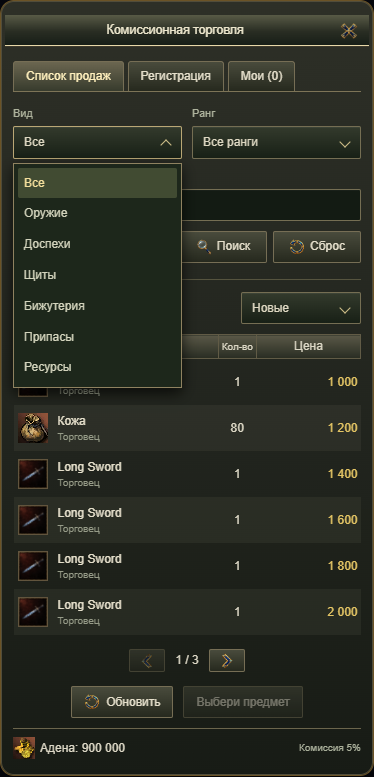
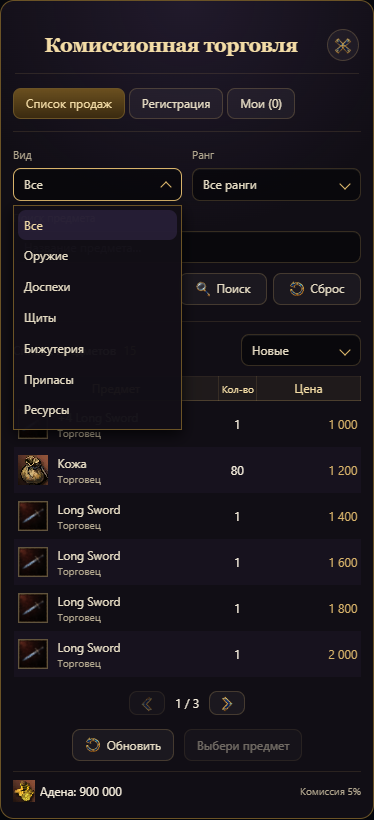
style(trade): align shop and auction with WhitesLove theme

diff --git a/webapp/auction.css b/webapp/auction.css
@@ -1,73 +1,73 @@
 .auction-overlay { align-items: center; padding: 10px; }
-.overlay-panel.auction-panel { width: min(100%, 900px); padding: 0 16px 12px; max-height: calc(100dvh - 20px); border: 2px ridge #9b9277; border-radius: 7px; background: linear-gradient(#313329ed, #181c16fa); color: #ddd8c6; box-shadow: inset 0 0 0 1px #514d3b, 0 15px 45px #000b; font: 12px/1.4 Arial, sans-serif; }
-.auction-title { display: flex; align-items: center; justify-content: space-between; margin: 0 -16px 14px; padding: 3px 8px; border-bottom: 2px ridge #92896b; background: linear-gradient(#585a46, #292d23 55%, #171e17); }
-.auction-title h2 { flex: 1; margin: 0; text-align: center; color: #eee8ce; font: 13px/22px Arial, sans-serif; }
-.auction-title .overlay-close { position: static; border: 0; background: transparent; color: #ded6b9; padding: 0 2px; width: 24px; height: 24px; font: 22px/1 Arial, sans-serif; }
-.auction-panel button, .auction-panel select, .auction-panel input { border: 1px solid #766e55; border-radius: 2px; background: linear-gradient(#494b3c, #26291e); color: #e5dfcb; font: inherit; }
+.overlay-panel.auction-panel { width: min(100%, 900px); padding: 0 16px 12px; max-height: calc(100dvh - 20px); border: 1px solid var(--gold-dim); border-radius: var(--radius-lg, 18px); background: radial-gradient(ellipse 90% 40% at 50% 0%, rgba(80,60,110,.25), transparent 70%), var(--surface-panel); color: var(--text); box-shadow: var(--shadow-panel); font: 12px/1.4 system-ui, sans-serif; }
+.auction-title { display: flex; align-items: center; justify-content: space-between; margin: 0 0 14px; padding: 14px 0 12px; border-bottom: 1px solid var(--border-subtle); background: transparent; }
+.auction-title h2 { flex: 1; margin: 0; text-align: center; color: var(--gold-bright); font: 700 20px/1.25 var(--serif); }
+.auction-title .overlay-close { position: static; border: 1px solid var(--border-soft); border-radius: 50%; background: var(--surface-control); color: var(--text-soft); padding: 0; width: 32px; height: 32px; flex: 0 0 32px; font: 22px/1 Arial, sans-serif; }
+.auction-panel button, .auction-panel select, .auction-panel input { border: 1px solid var(--border-soft); border-radius: var(--radius-xs, 8px); background: var(--surface-control); color: var(--text-soft); font: inherit; }
 .auction-panel button { cursor: pointer; padding: 6px 12px; font-weight: normal; }
 .auction-panel .ui-icon { width: 16px; height: 16px; flex: 0 0 16px; object-fit: contain; vertical-align: middle; }
 .auction-panel .overlay-close .ui-icon { width: 18px; height: 18px; }
 .auction-panel button:disabled { opacity: .45; cursor: default; }
-.auction-panel button:focus-visible, .auction-panel input:focus-visible, .auction-panel select:focus-visible { outline: 1px solid #dac381; outline-offset: 2px; }
-.auction-tabs { display: flex; gap: 4px; margin-bottom: 14px; border-bottom: 1px solid #7d7457; }
-.auction-tabs button { border-radius: 3px 3px 0 0; border-bottom: 0; }
-.auction-tabs .active { background: linear-gradient(#6b6650, #373b2d); color: #fff0bd; }
-.auction-filters { display: grid; grid-template-columns: 135px 120px minmax(0,1fr) auto; align-items: end; gap: 12px; padding: 0 0 16px; margin-bottom: 12px; border-bottom: 1px solid #56543f; }
+.auction-panel button:focus-visible, .auction-panel input:focus-visible, .auction-panel select:focus-visible { outline: 1px solid var(--gold); outline-offset: 2px; }
+.auction-tabs { display: flex; gap: 4px; margin-bottom: 16px; padding-bottom: 12px; border-bottom: 1px solid var(--border-subtle); }
+.auction-tabs button { border-radius: var(--radius-xs, 8px); }
+.auction-tabs .active { background: var(--button-gold); border-color: var(--gold-dim); color: var(--gold-bright); }
+.auction-filters { display: grid; grid-template-columns: 135px 120px minmax(0,1fr) auto; align-items: end; gap: 12px; padding: 0 0 16px; margin-bottom: 12px; border-bottom: 1px solid var(--border-subtle); }
 .auction-filter-field { display: flex; flex-direction: column; gap: 6px; min-width: 0; }
-.auction-filter-field > span { color: #aeb39d; font: 11px/14px Arial,sans-serif; }
-.auction-filters input { width: 100%; min-width: 0; height: 32px; padding: 6px 10px; border-radius: 2px; background: #131b13; box-shadow: inset 0 1px 4px #0008; appearance: none; }
-.auction-panel input::placeholder { color: #858d7a; opacity: 1; }
-.auction-overlay .auction-panel .auction-filter-field input[type=search], .auction-overlay .auction-panel .feedback-field input[type=number] { min-height: 32px; border: 1px solid #756e53; border-radius: 2px; background: #131b13; color: #ded8c2; padding: 6px 10px; font: 12px/18px Arial,sans-serif; }
+.auction-filter-field > span { color: var(--muted); font: 11px/14px system-ui,sans-serif; }
+.auction-filters input { width: 100%; min-width: 0; height: 32px; padding: 6px 10px; border-radius: var(--radius-xs, 8px); background: var(--surface-input); box-shadow: inset 0 1px 4px #0008; appearance: none; }
+.auction-panel input::placeholder { color: var(--text-faint); opacity: 1; }
+.auction-overlay .auction-panel .auction-filter-field input[type=search], .auction-overlay .auction-panel .feedback-field input[type=number] { min-height: 32px; border: 1px solid var(--border-soft); border-radius: var(--radius-xs, 8px); background: var(--surface-input); color: var(--text-soft); padding: 6px 10px; font: 12px/18px system-ui,sans-serif; }
 .auction-filter-actions { display: flex; gap: 6px; }
 .auction-filter-actions button { display: flex; align-items: center; justify-content: center; gap: 5px; height: 32px; }
 .auction-dropdown { position: relative; min-width: 0; font-weight: normal; }
-.auction-dropdown summary { position: relative; min-height: 32px; list-style: none; padding: 7px 30px 7px 10px; border: 1px solid #756e53; border-radius: 2px; background: linear-gradient(#333a2c,#182016); color: #ded8c2; cursor: pointer; box-shadow: inset 0 1px #ffffff0d; white-space: nowrap; }
+.auction-dropdown summary { position: relative; min-height: 32px; list-style: none; padding: 7px 30px 7px 10px; border: 1px solid var(--border-soft); border-radius: var(--radius-xs, 8px); background: var(--surface-input); color: var(--text-soft); cursor: pointer; box-shadow: inset 0 1px #ffffff0d; white-space: nowrap; }
 .auction-dropdown summary::-webkit-details-marker { display: none; }
-.auction-dropdown summary::after { content: ''; position: absolute; right: 11px; top: 11px; width: 7px; height: 7px; border-right: 1px solid #c9b985; border-bottom: 1px solid #c9b985; transform: rotate(45deg); }
-.auction-dropdown[open] summary { border-color: #baa775; }
+.auction-dropdown summary::after { content: ''; position: absolute; right: 11px; top: 11px; width: 7px; height: 7px; border-right: 1px solid var(--gold); border-bottom: 1px solid var(--gold); transform: rotate(45deg); }
+.auction-dropdown[open] summary { border-color: var(--gold); }
 .auction-dropdown[open] summary::after { top: 14px; transform: rotate(225deg); }
-.auction-dropdown-options { position: absolute; top: calc(100% + 4px); left: 0; right: 0; z-index: 5; max-height: 250px; overflow-y: auto; padding: 4px; border: 1px solid #8f8260; background: #1d271b; box-shadow: 0 5px 14px #000b; }
-.auction-dropdown-options button { display: block; width: 100%; padding: 7px 6px; border: 0; background: transparent; color: #d3d4bd; text-align: left; }
-.auction-dropdown-options button:hover, .auction-dropdown-options button[aria-pressed=true] { background: #414b32; color: #f4df9c; }
-.auction-dropdown summary:focus-visible { outline: 1px solid #dac381; outline-offset: 2px; }
+.auction-dropdown-options { position: absolute; top: calc(100% + 4px); left: 0; right: 0; z-index: 5; max-height: 250px; overflow-y: auto; padding: 4px; border: 1px solid var(--gold-dim); background: var(--surface-panel); box-shadow: 0 5px 14px #000b; }
+.auction-dropdown-options button { display: block; width: 100%; padding: 7px 6px; border: 0; background: transparent; color: var(--text-soft); text-align: left; }
+.auction-dropdown-options button:hover, .auction-dropdown-options button[aria-pressed=true] { background: rgba(154,122,232,.14); color: var(--gold-bright); }
+.auction-dropdown summary:focus-visible { outline: 1px solid var(--gold); outline-offset: 2px; }
 .auction-market { display: grid; grid-template-columns: 160px minmax(0,1fr); gap: 12px; }
-.auction-types { display: flex; flex-direction: column; gap: 1px; padding: 5px; background: #11170fb3; border: 1px solid #514f3c; }
+.auction-types { display: flex; flex-direction: column; gap: 1px; padding: 5px; background: var(--surface-input); border: 1px solid var(--border-subtle); }
 .auction-types strong { padding: 3px 7px 8px; font-weight: normal; }
 .auction-types button { text-align: left; border: 0; background: transparent; }
-.auction-types .active { background: #444734; color: #fff1bf; }
+.auction-types .active { background: rgba(154,122,232,.14); color: var(--gold-bright); }
 .auction-results { min-width: 0; }
 .auction-list-title { display: flex; align-items: center; justify-content: space-between; gap: 8px; padding-bottom: 10px; }
-.auction-list-title b { margin-left: 4px; color: #cfb773; font-weight: normal; }
+.auction-list-title b { margin-left: 4px; color: var(--gold); font-weight: normal; }
 .auction-list-title .auction-dropdown { width: 120px; }
 .auction-table { width: 100%; border-collapse: collapse; table-layout: fixed; }
-.auction-table th { font-weight: normal; padding: 3px; background: linear-gradient(#5a5847, #292d23); border: 1px solid #615b46; }
+.auction-table th { font-weight: normal; padding: 3px; background: rgba(216,179,106,.07); color: var(--gold-bright); border: 1px solid var(--border-subtle); }
 .auction-table th:first-child { width: 61%; }
 .auction-table th.auction-grade { width: 8%; }
 .auction-table th.auction-count { width: 9%; }
 .auction-table td { padding: 3px; vertical-align: middle; }
-.auction-table tr:nth-child(even) { background: #8887781a; }
-.auction-table tr.selected { background: #79775260; box-shadow: inset 0 0 0 1px #ab9c69; }
+.auction-table tr:nth-child(even) { background: rgba(154,122,232,.045); }
+.auction-table tr.selected { background: rgba(216,179,106,.10); box-shadow: inset 0 0 0 1px var(--border-strong); }
 .auction-table .auction-item-pick { display: flex; align-items: center; gap: 9px; width: 100%; min-height: 40px; text-align: left; padding: 0; border: 0; background: transparent; overflow-wrap: anywhere; }
-.auction-item-pick small { display: block; color: #969b88; font-size: 10px; }
+.auction-item-pick small { display: block; color: var(--muted); font-size: 10px; }
 .auction-art { flex: 0 0 32px; width: 32px; height: 32px; display: grid; place-items: center; }
 .auction-art img { width: 32px; height: 32px; object-fit: contain; border-radius: 0; }
 .auction-grade, .auction-count { text-align: center; }
 .auction-table th.auction-count { white-space: nowrap; font-size: 10px; }
-.auction-price { text-align: right; color: #e5c665; font-variant-numeric: tabular-nums; overflow-wrap: anywhere; }
+.auction-price { text-align: right; color: var(--gold); font-variant-numeric: tabular-nums; overflow-wrap: anywhere; }
 .auction-pagination, .auction-actions { display: flex; align-items: center; justify-content: center; gap: 10px; margin-top: 14px; }
 .auction-actions button { display: flex; align-items: center; justify-content: center; gap: 6px; min-height: 32px; }
 .auction-pagination button { padding: 2px 9px; }
-.auction-detail { margin-top: 8px; padding: 8px; border: 1px solid #5e5b44; background: #121a11; overflow-wrap: anywhere; }
+.auction-detail { margin-top: 8px; padding: 8px; border: 1px solid var(--border-soft); background: var(--surface-input); overflow-wrap: anywhere; }
 .auction-detail p { margin: 5px 0; }
-.auction-empty { padding: 25px 8px; color: #aeb39d; text-align: center; }
-.auction-wallet { display: flex; align-items: center; gap: 5px; border-top: 1px solid #6b654c; padding-top: 8px; margin-top: 10px; }
-.auction-wallet small { margin-left: auto; color: #aab09b; }
-.auction-panel .feedback-card, .auction-panel .mail-letter { border-radius: 2px; border-color: #5d5a44; background: #1a2217; padding: 10px; }
+.auction-empty { padding: 25px 8px; color: var(--muted); text-align: center; }
+.auction-wallet { display: flex; align-items: center; gap: 5px; border-top: 1px solid var(--border-subtle); padding-top: 8px; margin-top: 10px; }
+.auction-wallet small { margin-left: auto; color: var(--muted); }
+.auction-panel .feedback-card, .auction-panel .mail-letter { border-radius: var(--radius-sm, 11px); border-color: var(--border-soft); background: var(--surface-card); padding: 12px; }
 .auction-panel .mail-head { display: flex; gap: 8px; align-items: center; }
 .auction-panel .feedback-submit { width: auto; margin-top: 8px; }
 @media(max-width:600px) {
   .overlay-panel.auction-panel { padding-left: 8px; padding-right: 8px; }
-  .auction-title { margin-left: -8px; margin-right: -8px; }
+  .auction-title { margin-left: 2px; margin-right: 2px; }
   .auction-market { grid-template-columns: minmax(0,1fr); }
   .auction-types { display: none; }
   .auction-filters { grid-template-columns: repeat(2,minmax(0,1fr)); gap: 10px; }

diff --git a/webapp/shop.css b/webapp/shop.css
@@ -1,29 +1,28 @@
 .l2-store-overlay { align-items: center; padding: 12px; }
 .overlay-panel.l2-store-panel {
-  width: min(100%, 340px); padding: 0 12px 10px; border-radius: 2px;
+  width: min(100%, 360px); padding: 14px 12px 12px; border-radius: var(--radius-lg, 18px);
   max-height: calc(100dvh - 24px); overflow-y: auto;
-  border: 2px ridge #93876a; color: #ddd8c4;
-  background: radial-gradient(ellipse at top, #272920 0%, #11150f 55%, #090c09 100%);
-  box-shadow: 0 0 0 1px #080a07, inset 0 0 0 1px #3a3c2d, 0 12px 40px #000b;
-  font-family: Arial, sans-serif;
+  border: 1px solid var(--gold-dim, #6b5326); color: var(--text, #f4ecdb);
+  background: radial-gradient(ellipse 90% 40% at 50% 0%, rgba(80,60,110,.25), transparent 70%), var(--surface-panel, #120e16);
+  box-shadow: var(--shadow-panel); font-family: system-ui, sans-serif;
 }
-.l2-store-title { display: flex; align-items: center; justify-content: space-between; height: 24px; margin: 0 -12px; padding: 0 4px 0 9px; border-bottom: 1px solid #8f8970; background: linear-gradient(#314453, #0b1827 45%, #1b2d3b); }
-.l2-store-title h2 { margin: 0; font: 13px/1 Arial, sans-serif; color: #eee9d8; }
-.l2-store-title .overlay-close { position: static; width: 19px; height: 19px; padding: 0; border-radius: 0; border: 1px solid #ada58a; background: #182a36; color: #eee9d8; font: 18px/16px Arial, sans-serif; }
-.l2-store-ornament { display: flex; align-items: center; gap: 9px; height: 42px; margin: 0 2px; }
-.l2-store-ornament::before, .l2-store-ornament::after { content: ''; flex: 1; height: 5px; border-top: 2px solid #9f9678; border-bottom: 1px solid #595540; transform: skewX(-30deg); box-shadow: 0 2px 3px #000; }
-.l2-store-ornament span { width: 14px; height: 14px; transform: rotate(45deg); border: 2px ridge #b0a588; background: #303324; }
-.l2-store-grid { display: grid; grid-template-columns: repeat(3, minmax(0, 1fr)); gap: 10px 12px; padding: 0 4px; }
-.l2-store-category { display: flex; flex-direction: column; align-items: center; gap: 4px; min-width: 0; padding: 0; border: 0; border-radius: 0; background: transparent; color: #eee8cf; cursor: pointer; }
-.l2-store-category img { display: block; width: 34px; height: 34px; object-fit: contain; border: 1px solid #514c36; border-radius: 0; }
-.l2-store-category span { display: grid; place-items: center; width: 100%; min-height: 24px; padding: 2px 0; border: 2px ridge #998b61; background: linear-gradient(#30434c, #172b34 45%, #0c202a); font: 12px/16px Arial, sans-serif; white-space: nowrap; }
-.l2-store-category:hover span, .l2-store-category:focus-visible span { color: #fff3bc; border-color: #d1bc7b; background: #294454; }
-.l2-store-category:focus-visible { outline: 1px solid #e5ca7f; outline-offset: 3px; }
-.l2-store-category[aria-disabled=true] { opacity: .5; }
-.l2-store-notice { min-height: 20px; margin-top: 8px; font: 12px/16px Arial, sans-serif; color: #c6baa0; text-align: center; }
-.l2-store-footer { display: flex; gap: 8px; border-top: 1px solid #514c37; padding-top: 8px; }
-.l2-store-footer button { flex: 1; padding: 5px 2px; border: 1px solid #70664c; border-radius: 1px; background: #20281f; color: #d9d0b7; font: 11px/14px Arial, sans-serif; }
-.l2-store-title .ui-icon { width: 14px; height: 14px; object-fit: contain; }
+.l2-store-title { display: flex; align-items: center; justify-content: space-between; gap: 12px; min-height: 34px; padding: 0 4px; }
+.l2-store-title h2 { margin: 0; color: var(--gold-bright); font: 700 21px/1.2 var(--serif); }
+.l2-store-title .overlay-close { position: static; width: 32px; height: 32px; padding: 0; border-radius: 50%; border: 1px solid var(--border-soft); background: var(--surface-control); color: var(--text-soft); display: grid; place-items: center; }
+.l2-store-ornament { display: flex; align-items: center; gap: 9px; height: 28px; margin: 0 4px 4px; }
+.l2-store-ornament::before, .l2-store-ornament::after { content: ''; flex: 1; height: 1px; background: linear-gradient(90deg, transparent, var(--gold-dim), transparent); }
+.l2-store-ornament span { width: 7px; height: 7px; transform: rotate(45deg); border: 1px solid var(--gold-dim); background: var(--surface-panel); }
+.l2-store-grid { display: grid; grid-template-columns: repeat(3, minmax(0, 1fr)); gap: 8px; }
+.l2-store-category { display: flex; flex-direction: column; align-items: center; gap: 7px; min-width: 0; padding: 9px 3px 8px; border: 1px solid var(--border-subtle); border-radius: var(--radius-xs, 8px); background: var(--surface-card-gradient); color: var(--gold-bright); cursor: pointer; transition: border-color .14s ease, background .14s ease; }
+.l2-store-category img { display: block; width: 36px; height: 36px; object-fit: contain; border: 1px solid var(--border-soft); border-radius: 4px; }
+.l2-store-category span { width: 100%; text-align: center; font: 600 12px/16px var(--serif); white-space: nowrap; }
+.l2-store-category:hover, .l2-store-category:focus-visible { border-color: var(--gold); background: rgba(154,122,232,.10); }
+.l2-store-category:focus-visible { outline: 1px solid var(--gold); outline-offset: 2px; }
+.l2-store-category[aria-disabled=true] { opacity: .45; }
+.l2-store-notice { min-height: 20px; margin-top: 8px; font: 12px/16px system-ui, sans-serif; color: var(--muted); text-align: center; }
+.l2-store-footer { display: flex; gap: 6px; border-top: 1px solid var(--border-subtle); padding-top: 10px; }
+.l2-store-footer button { flex: 1; min-height: 32px; padding: 5px 2px; border: 1px solid var(--border-soft); border-radius: var(--radius-xs, 8px); background: var(--surface-control); color: var(--text-soft); font: 11px/14px system-ui, sans-serif; }
+.l2-store-title .ui-icon { width: 16px; height: 16px; object-fit: contain; }
 .shop-icon .ui-icon { width: 34px; height: 34px; object-fit: contain; }
 .shop-price, .shop-wallet { display: flex; align-items: center; justify-content: center; gap: 5px; }
 .shop-price .ui-icon, .shop-price .mat-icon { width: 17px; height: 17px; object-fit: contain; }

diff --git a/docs/l2-trade-preview.html b/docs/l2-trade-preview.html
@@ -1,10 +1,10 @@
 <!doctype html>
 <html lang="ru"><meta charset="utf-8"><meta name="viewport" content="width=device-width,initial-scale=1">
 <title>Магазин и комиссионная торговля — L2</title>
-<style>body{margin:0;padding:24px;background:#10150f;color:#ded6bc;font:15px/1.5 Arial,sans-serif}main{max-width:1100px;margin:auto}h1{font-size:23px}nav{display:flex;gap:18px}a{color:#e4c87e}section{margin-top:28px}img{max-width:100%;height:auto}figure{margin:0}.phones{display:flex;align-items:flex-start;gap:24px;flex-wrap:wrap}.phones figure{max-width:374px}figcaption{margin:6px 0 16px;color:#a5ac95}p{max-width:760px}</style>
+<style>body{margin:0;padding:24px;background:#0b0a10;color:#f4ecdb;font:15px/1.5 system-ui,sans-serif}main{max-width:1100px;margin:auto}h1,h2{font-family:Georgia,serif;color:#f3dca6}h1{font-size:23px}nav{display:flex;gap:18px}a{color:#d8b36a}section{margin-top:28px}img{max-width:100%;height:auto}figure{margin:0}.phones{display:flex;align-items:flex-start;gap:24px;flex-wrap:wrap}.phones figure{max-width:374px}figcaption{margin:6px 0 16px;color:#b3a88f}p{max-width:760px}</style>
 <main><h1>Магазин и комиссионная торговля</h1><nav><a href="#shop">Магазин</a><a href="#auction">Аукцион</a></nav>
-<p>Снимки действующих окон приложения. Иконки предметов — WebP. Покупка, регистрация и снятие лотов используют существующую систему торговли.</p>
+<p>Структура окон из L2 в текущем стиле WhitesLove: тёмные фиолетовые панели, золотые рамки и заголовки. Иконки предметов и кнопок — WebP. Покупка, регистрация и снятие лотов используют существующую систему торговли.</p>
 <div class="phones"><section id="shop"><h2>Магазин</h2><figure><img src="l2-shop-390.png" alt="Магазин: три колонки категорий"><figcaption>Квестовые товары и руны отмечены как отсутствующие в продаже.</figcaption></figure></section>
-<section id="auction"><h2>Аукцион на телефоне</h2><figure><img src="l2-auction-390.png" alt="Комиссионная торговля на телефоне"><figcaption>Шесть лотов на странице. Поиск с подсказкой, меню в стиле L2 и WebP-иконки кнопок.</figcaption></figure></section>
-<section><h2>Открытый фильтр</h2><figure><img src="l2-auction-dropdown-390.png" alt="Меню категорий в стиле L2"><figcaption>Выбор мышью или клавишами, закрытие по Escape.</figcaption></figure></section></div>
+<section id="auction"><h2>Аукцион на телефоне</h2><figure><img src="l2-auction-390.png" alt="Комиссионная торговля на телефоне"><figcaption>Шесть лотов на странице. Поиск с подсказкой и WebP-иконки кнопок.</figcaption></figure></section>
+<section><h2>Открытый фильтр</h2><figure><img src="l2-auction-dropdown-390.png" alt="Меню категорий в стиле WhitesLove"><figcaption>Выбор мышью или клавишами, закрытие по Escape.</figcaption></figure></section></div>
 <section><h2>Аукцион на широком экране</h2><img src="l2-auction-desktop.png" alt="Комиссионная торговля с категориями слева и таблицей лотов справа"></section></main></html>
